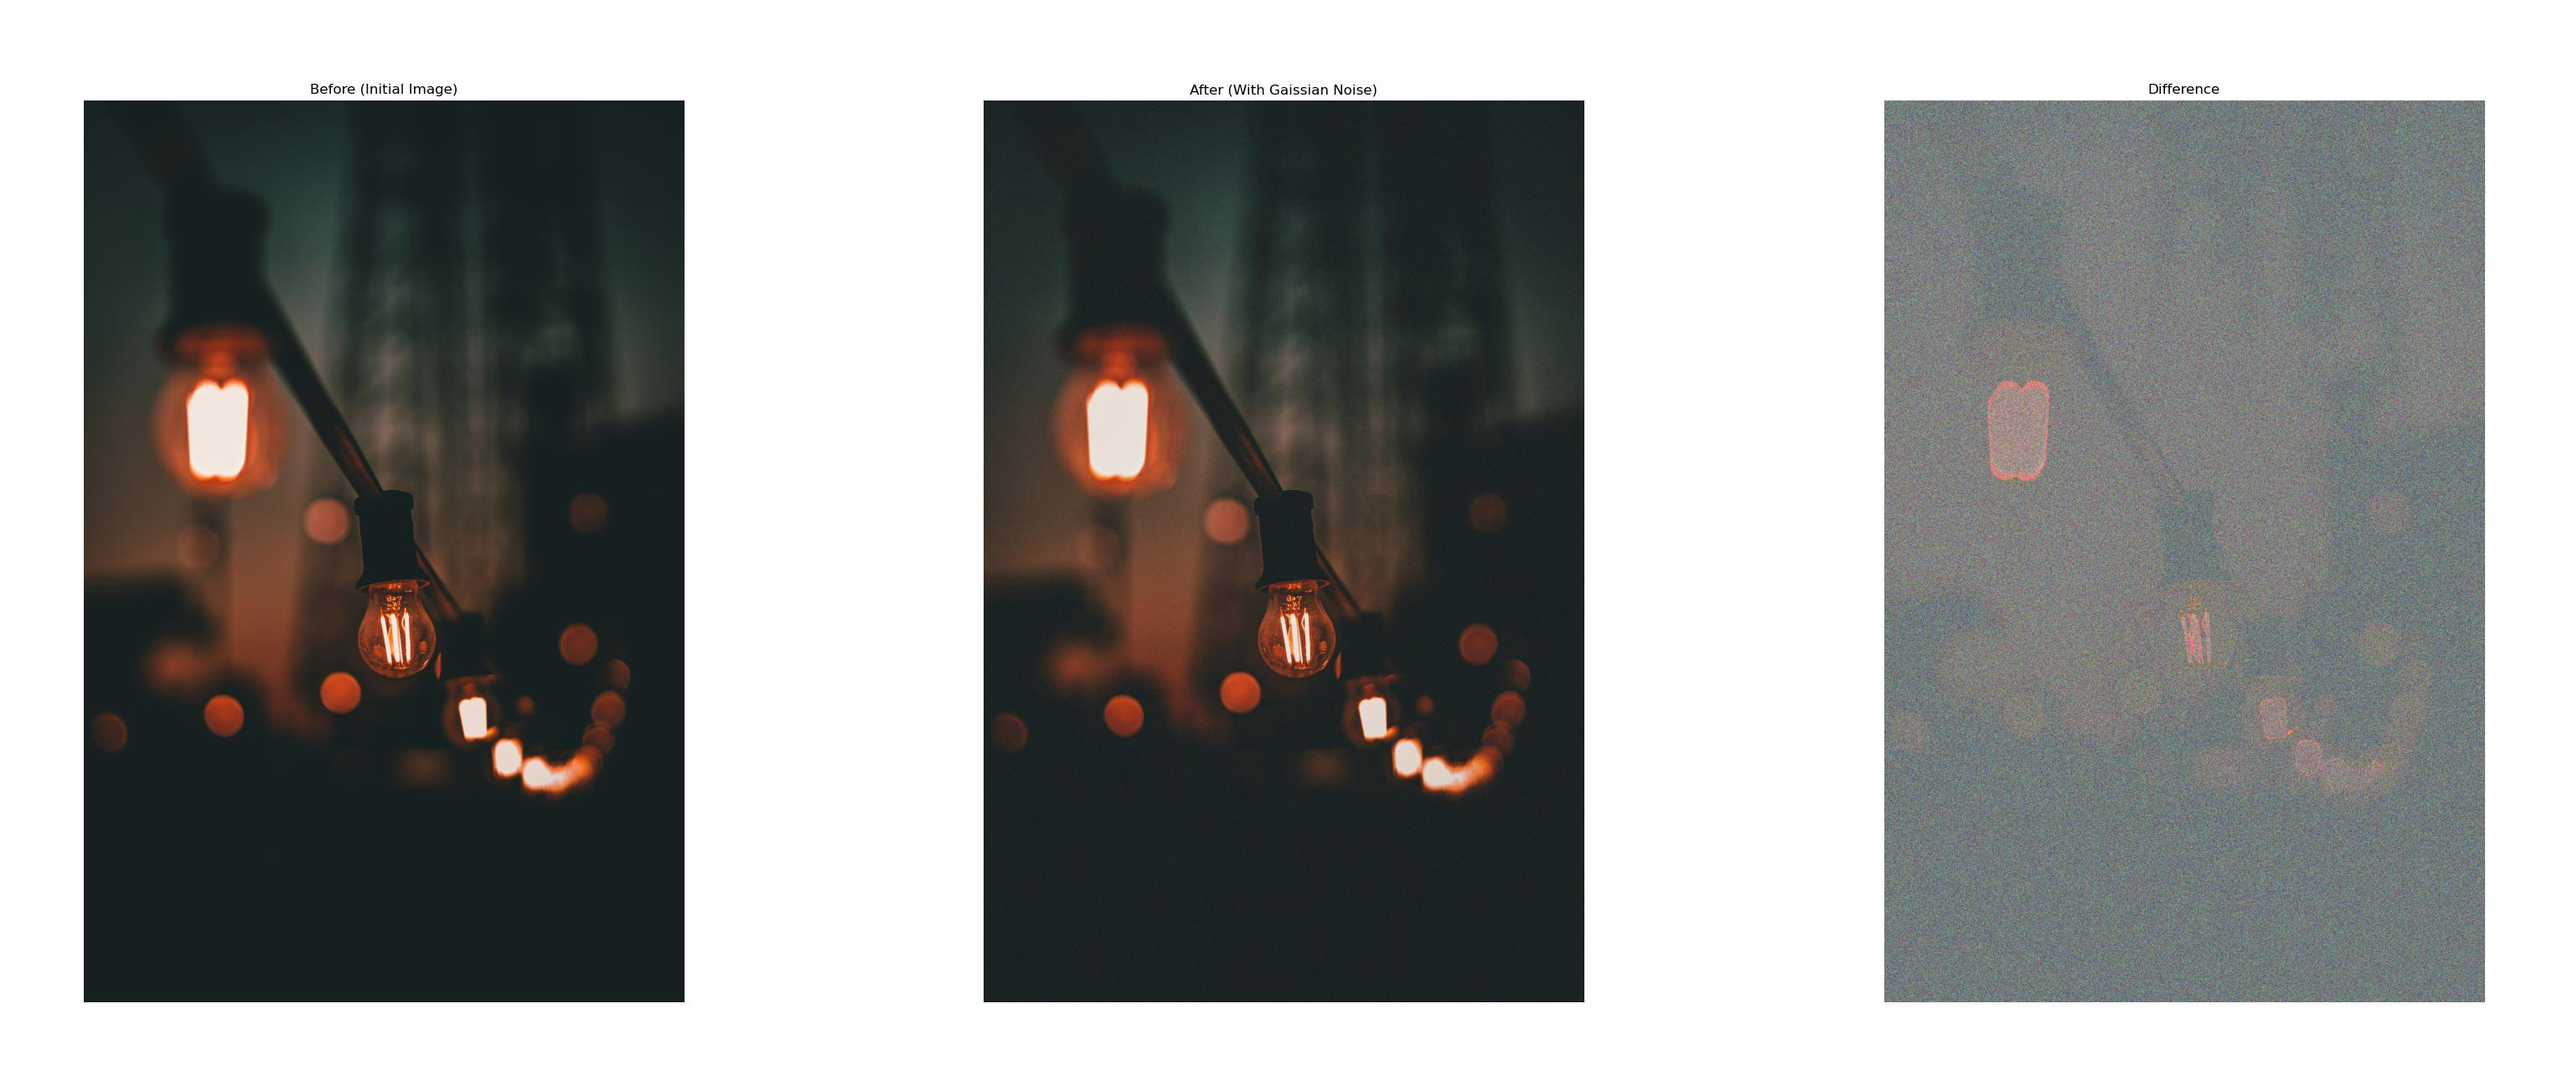
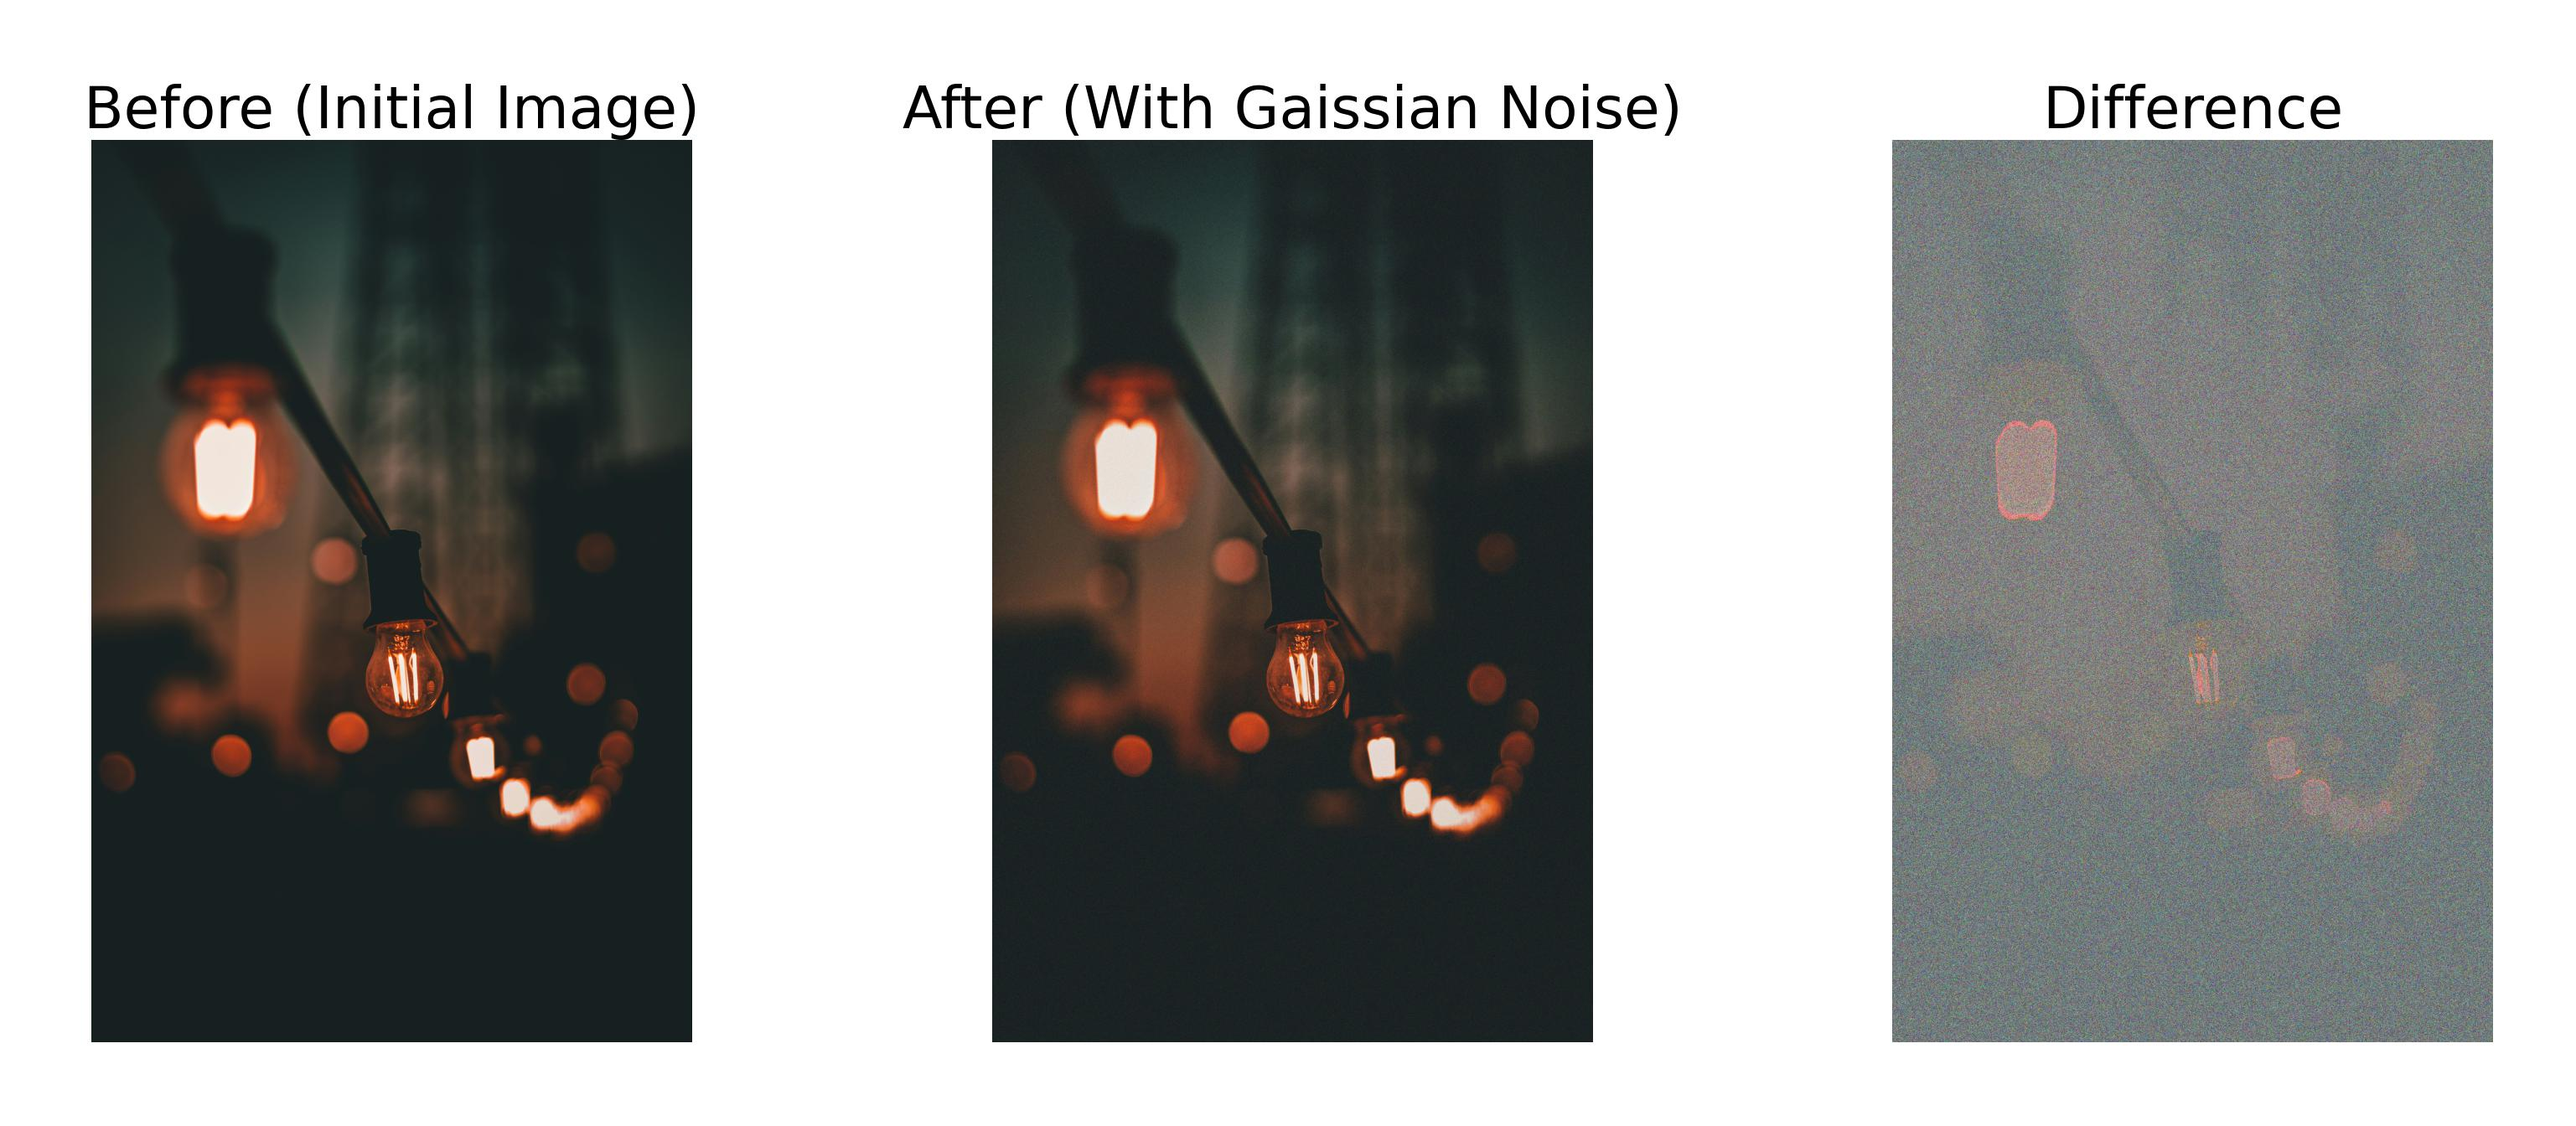
update

diff --git a/Add Gaussian Noise/add_gaussian_noise.py b/Add Gaussian Noise/add_gaussian_noise.py
@@ -33,19 +33,19 @@ diffrence = final - img
 plt.figure(figsize=(img.shape[0]*0.005,img.shape[1]*0.005))
 plt.subplot(1,3,1)
 plt.axis("off")
-plt.title("Before (Initial Image)")
+plt.title("Before (Initial Image)", fontsize=50)
 plt.imshow(img)
 
 # Image with Gaussian Noise
 plt.subplot(1,3,2)
 plt.axis("off")
-plt.title("After (With Gaissian Noise)")
+plt.title("After (With Gaissian Noise)", fontsize=50)
 plt.imshow(final)
 
 # Difference
 plt.subplot(1,3,3)
 plt.axis("off")
-plt.title("Difference")
+plt.title("Difference", fontsize=50)
 plt.imshow(diffrence)
 
 

diff --git a/README.md b/README.md
@@ -1,5 +1,9 @@
 # Image Processing
 
+**python version : 3.8.8**
+
+**opencv version : 4.8.1**
+
 ## Add Gaussian Noise
 Random generate noise : 50 variations with sigma = 35
 ![](pics/gaussian_noise_result.jpg)
